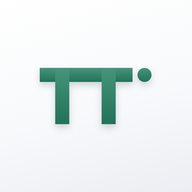
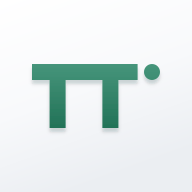
SATTO: 公式のロゴ・アイコン・ファビコンに差し替え
Claude-Session: https://claude.ai/code/session_01XBEK1zKb41iJAhumqLVeqb

Changed region(s): [[0.1562, 0.3125, 0.8438, 0.6875]]

diff --git a/kyomo/field/assets/logo.js b/kyomo/field/assets/logo.js
@@ -1,26 +1,19 @@
-/* SATTO のロゴ（文字のロゴ：2つのTを1本の線でつなぎ、端に点）とアイコン。色は会社の緑 */
+/* SATTO のロゴとアイコン（公式データ）。ロゴは形と比率を変えずに使い、文字の色だけを背景に合わせて切り替える */
 (function () {
   'use strict';
-  var G = '#288465';
-  function tt(fs) {
-    return '<svg class="tt" viewBox="0 0 158 78" width="' + (fs * 1.41).toFixed(1) + '" height="' + (fs * 0.696).toFixed(1) + '" aria-hidden="true">' +
-      '<rect x="0" y="0" width="134" height="15" fill="' + G + '"/><rect x="24" y="0" width="17" height="78" fill="' + G + '"/>' +
-      '<rect x="92" y="0" width="17" height="78" fill="' + G + '"/><circle cx="148" cy="7.5" r="8.5" fill="' + G + '"/></svg>';
-  }
-  function tile(px) {
-    var g = Math.round(px * 0.66);
-    return '<span class="tile" style="width:' + px + 'px;height:' + px + 'px;border-radius:' + Math.round(px * 0.236) + 'px">' +
-      '<svg viewBox="0 0 160 80" width="' + g + '" height="' + Math.round(g / 2) + '" aria-hidden="true">' +
-      '<rect x="0" y="0" width="132" height="22" fill="' + G + '"/><rect x="21" y="0" width="22" height="80" fill="' + G + '"/>' +
-      '<rect x="87" y="0" width="22" height="80" fill="' + G + '"/><circle cx="149" cy="11" r="11" fill="' + G + '"/></svg></span>';
+  var me = document.currentScript && document.currentScript.src;
+  var dir = me ? me.replace(/[^/]*$/, '') : 'assets/';
+  var VB = "-26.4 0 3670.8 814.7", INNER = "<path class=\"ink\" transform=\"translate(0.0 760.4) scale(1 -1)\" d=\"M280 -11Q193 -11 130.25 17.25Q67.5 45.5 16 103.5L117.5 205Q151.5 165.5 193.0 144.0Q234.5 122.5 290 122.5Q339.5 122.5 367.25 140.75Q395 159 395 191Q395 219.5 377.0 237.75Q359 256 329.5 269.0Q300 282 264.5 293.75Q229 305.5 193.75 321.25Q158.5 337 129.0 360.25Q99.5 383.5 81.5 419.25Q63.5 455 63.5 508.5Q63.5 574 95.25 620.75Q127 667.5 183.0 692.25Q239 717 311.5 717Q386 717 447.5 690.75Q509 664.5 548.5 620L446.5 518.5Q415 551.5 382.25 567.5Q349.5 583.5 309 583.5Q267.5 583.5 243.5 568.0Q219.5 552.5 219.5 523.5Q219.5 497 237.5 480.5Q255.5 464 285.0 451.75Q314.5 439.5 350.0 427.5Q385.5 415.5 420.75 399.75Q456 384 485.5 359.5Q515 335 533.0 297.5Q551 260 551 205Q551 103.5 479.0 46.25Q407 -11 280 -11Z\"/>\n<path class=\"ink\" transform=\"translate(598.6 760.4) scale(1 -1)\" d=\"M15 0 294.5 706H436.5L713.5 0H547.5L336 586H393L178 0ZM174 127.5V255.5H558.5V127.5Z\"/>\n<path class=\"ink\" transform=\"translate(2828.0 760.4) scale(1 -1)\" d=\"M404.5 -12Q325 -12 257.25 16.0Q189.5 44 138.75 93.75Q88 143.5 59.75 210.25Q31.5 277 31.5 354Q31.5 431.5 59.5 497.5Q87.5 563.5 137.75 613.25Q188 663 255.5 690.5Q323 718 402.5 718Q482 718 549.5 690.5Q617 663 667.5 613.25Q718 563.5 746.0 497.0Q774 430.5 774 353Q774 276 746.0 209.5Q718 143 667.75 93.25Q617.5 43.5 550.25 15.75Q483 -12 404.5 -12ZM402.5 131Q466 131 513.25 159.0Q560.5 187 586.75 237.25Q613 287.5 613 354Q613 403.5 598.0 444.0Q583 484.5 555.0 514.0Q527 543.5 488.5 559.25Q450 575 402.5 575Q339.5 575 292.25 547.5Q245 520 218.75 470.25Q192.5 420.5 192.5 354Q192.5 304 207.5 262.75Q222.5 221.5 250.25 192.25Q278 163 316.75 147.0Q355.5 131 402.5 131Z\"/>\n<g fill=\"#288465\">\n<rect x=\"1358.9\" y=\"54.4\" width=\"1212.9\" height=\"135.8\"/>\n<rect x=\"1576.1\" y=\"54.4\" width=\"153.9\" height=\"706.0\"/>\n<rect x=\"2191.6\" y=\"54.4\" width=\"153.9\" height=\"706.0\"/>\n<circle cx=\"2698.5\" cy=\"122.2\" r=\"76.9\"/>\n</g>";
+  function mark(h) {
+    return '<svg class="mark" viewBox="' + VB + '" height="' + h + '" width="' + (h * 3670.8 / 814.7).toFixed(1) + '" aria-hidden="true">' + INNER + '</svg>';
   }
   window.SATTO = {
-    logo: function (fs, opt) {
-      opt = opt || {}; fs = fs || 20;
+    logo: function (h, opt) {
+      opt = opt || {}; h = h || 18;
+      var t = Math.round(h * 1.75);
       return '<span class="logo" role="img" aria-label="SATTO' + (opt.sub ? ' ' + opt.sub : '') + '">' +
-        (opt.icon === false ? '' : tile(Math.round(fs * 1.45))) +
-        '<span class="wm" style="font-size:' + fs + 'px" aria-hidden="true">SA' + tt(fs) + 'O</span>' +
-        (opt.sub ? '<span class="sub">' + opt.sub + '</span>' : '') + '</span>';
+        (opt.icon === false ? '' : '<img class="tile" src="' + dir + 'satto-icon.svg" width="' + t + '" height="' + t + '" alt="">') +
+        mark(h) + (opt.sub ? '<span class="sub">' + opt.sub + '</span>' : '') + '</span>';
     }
   };
 })();

diff --git a/kyomo/test-b/assets/logo.js b/kyomo/test-b/assets/logo.js
@@ -1,26 +1,19 @@
-/* SATTO のロゴ（文字のロゴ：2つのTを1本の線でつなぎ、端に点）とアイコン。色は会社の緑 */
+/* SATTO のロゴとアイコン（公式データ）。ロゴは形と比率を変えずに使い、文字の色だけを背景に合わせて切り替える */
 (function () {
   'use strict';
-  var G = '#288465';
-  function tt(fs) {
-    return '<svg class="tt" viewBox="0 0 158 78" width="' + (fs * 1.41).toFixed(1) + '" height="' + (fs * 0.696).toFixed(1) + '" aria-hidden="true">' +
-      '<rect x="0" y="0" width="134" height="15" fill="' + G + '"/><rect x="24" y="0" width="17" height="78" fill="' + G + '"/>' +
-      '<rect x="92" y="0" width="17" height="78" fill="' + G + '"/><circle cx="148" cy="7.5" r="8.5" fill="' + G + '"/></svg>';
-  }
-  function tile(px) {
-    var g = Math.round(px * 0.66);
-    return '<span class="tile" style="width:' + px + 'px;height:' + px + 'px;border-radius:' + Math.round(px * 0.236) + 'px">' +
-      '<svg viewBox="0 0 160 80" width="' + g + '" height="' + Math.round(g / 2) + '" aria-hidden="true">' +
-      '<rect x="0" y="0" width="132" height="22" fill="' + G + '"/><rect x="21" y="0" width="22" height="80" fill="' + G + '"/>' +
-      '<rect x="87" y="0" width="22" height="80" fill="' + G + '"/><circle cx="149" cy="11" r="11" fill="' + G + '"/></svg></span>';
+  var me = document.currentScript && document.currentScript.src;
+  var dir = me ? me.replace(/[^/]*$/, '') : 'assets/';
+  var VB = "-26.4 0 3670.8 814.7", INNER = "<path class=\"ink\" transform=\"translate(0.0 760.4) scale(1 -1)\" d=\"M280 -11Q193 -11 130.25 17.25Q67.5 45.5 16 103.5L117.5 205Q151.5 165.5 193.0 144.0Q234.5 122.5 290 122.5Q339.5 122.5 367.25 140.75Q395 159 395 191Q395 219.5 377.0 237.75Q359 256 329.5 269.0Q300 282 264.5 293.75Q229 305.5 193.75 321.25Q158.5 337 129.0 360.25Q99.5 383.5 81.5 419.25Q63.5 455 63.5 508.5Q63.5 574 95.25 620.75Q127 667.5 183.0 692.25Q239 717 311.5 717Q386 717 447.5 690.75Q509 664.5 548.5 620L446.5 518.5Q415 551.5 382.25 567.5Q349.5 583.5 309 583.5Q267.5 583.5 243.5 568.0Q219.5 552.5 219.5 523.5Q219.5 497 237.5 480.5Q255.5 464 285.0 451.75Q314.5 439.5 350.0 427.5Q385.5 415.5 420.75 399.75Q456 384 485.5 359.5Q515 335 533.0 297.5Q551 260 551 205Q551 103.5 479.0 46.25Q407 -11 280 -11Z\"/>\n<path class=\"ink\" transform=\"translate(598.6 760.4) scale(1 -1)\" d=\"M15 0 294.5 706H436.5L713.5 0H547.5L336 586H393L178 0ZM174 127.5V255.5H558.5V127.5Z\"/>\n<path class=\"ink\" transform=\"translate(2828.0 760.4) scale(1 -1)\" d=\"M404.5 -12Q325 -12 257.25 16.0Q189.5 44 138.75 93.75Q88 143.5 59.75 210.25Q31.5 277 31.5 354Q31.5 431.5 59.5 497.5Q87.5 563.5 137.75 613.25Q188 663 255.5 690.5Q323 718 402.5 718Q482 718 549.5 690.5Q617 663 667.5 613.25Q718 563.5 746.0 497.0Q774 430.5 774 353Q774 276 746.0 209.5Q718 143 667.75 93.25Q617.5 43.5 550.25 15.75Q483 -12 404.5 -12ZM402.5 131Q466 131 513.25 159.0Q560.5 187 586.75 237.25Q613 287.5 613 354Q613 403.5 598.0 444.0Q583 484.5 555.0 514.0Q527 543.5 488.5 559.25Q450 575 402.5 575Q339.5 575 292.25 547.5Q245 520 218.75 470.25Q192.5 420.5 192.5 354Q192.5 304 207.5 262.75Q222.5 221.5 250.25 192.25Q278 163 316.75 147.0Q355.5 131 402.5 131Z\"/>\n<g fill=\"#288465\">\n<rect x=\"1358.9\" y=\"54.4\" width=\"1212.9\" height=\"135.8\"/>\n<rect x=\"1576.1\" y=\"54.4\" width=\"153.9\" height=\"706.0\"/>\n<rect x=\"2191.6\" y=\"54.4\" width=\"153.9\" height=\"706.0\"/>\n<circle cx=\"2698.5\" cy=\"122.2\" r=\"76.9\"/>\n</g>";
+  function mark(h) {
+    return '<svg class="mark" viewBox="' + VB + '" height="' + h + '" width="' + (h * 3670.8 / 814.7).toFixed(1) + '" aria-hidden="true">' + INNER + '</svg>';
   }
   window.SATTO = {
-    logo: function (fs, opt) {
-      opt = opt || {}; fs = fs || 20;
+    logo: function (h, opt) {
+      opt = opt || {}; h = h || 18;
+      var t = Math.round(h * 1.75);
       return '<span class="logo" role="img" aria-label="SATTO' + (opt.sub ? ' ' + opt.sub : '') + '">' +
-        (opt.icon === false ? '' : tile(Math.round(fs * 1.45))) +
-        '<span class="wm" style="font-size:' + fs + 'px" aria-hidden="true">SA' + tt(fs) + 'O</span>' +
-        (opt.sub ? '<span class="sub">' + opt.sub + '</span>' : '') + '</span>';
+        (opt.icon === false ? '' : '<img class="tile" src="' + dir + 'satto-icon.svg" width="' + t + '" height="' + t + '" alt="">') +
+        mark(h) + (opt.sub ? '<span class="sub">' + opt.sub + '</span>' : '') + '</span>';
     }
   };
 })();

diff --git a/kyomo/test-b/index.html b/kyomo/test-b/index.html
@@ -11,11 +11,12 @@
 <meta name="apple-mobile-web-app-status-bar-style" content="black-translucent">
 <link rel="apple-touch-icon" href="assets/icon-180.png">
 <link rel="manifest" href="manifest.webmanifest">
+<link rel="icon" href="assets/favicon.ico" sizes="any">
 <title>SATTO テストB</title>
 <link rel="preconnect" href="https://fonts.googleapis.com">
 <link rel="preconnect" href="https://fonts.gstatic.com" crossorigin>
 <link rel="stylesheet" href="https://fonts.googleapis.com/css2?family=BIZ+UDPGothic:wght@400;700&family=Outfit:wght@700&display=swap">
-<link rel="stylesheet" href="assets/base.css?v=s1">
+<link rel="stylesheet" href="assets/base.css?v=s2">
 <style>
 /* 親指が届く下端に報告ボタンを固定し、上半分は「いま何時か、今日どこか」だけを見せる */
 #app { max-width: 480px; margin: 0 auto; min-height: 100dvh; background: var(--bg); position: relative; }
@@ -146,7 +147,7 @@
 <body>
 <div id="app"></div>
 <div id="overlay"></div>
-<script src="assets/logo.js?v=s1"></script>
+<script src="assets/logo.js?v=s2"></script>
 <script src="assets/core.js?v=b2"></script>
 <script>
 (function () {
@@ -178,9 +179,9 @@
   function header(title) {
     const p = me(), now = K.now(), sec = String(Math.floor((now % 1) * 60)).padStart(2, '0');
     if (title) {
-      return '<header class="top"><div class="bar">' + (V.sub ? '<button class="back" data-back="1">' + ic('back', 20) + '戻る</button>' : '<span class="brand">' + SATTO.logo(19, { sub: 'テストB' }) + '</span>') + demoBtn() + '</div><h1 class="sub-title">' + esc(title) + '</h1></header>';
+      return '<header class="top"><div class="bar">' + (V.sub ? '<button class="back" data-back="1">' + ic('back', 20) + '戻る</button>' : '<span class="brand">' + SATTO.logo(17, { sub: 'テストB' }) + '</span>') + demoBtn() + '</div><h1 class="sub-title">' + esc(title) + '</h1></header>';
     }
-    return '<header class="top"><div class="bar"><span class="brand">' + SATTO.logo(19, { sub: 'テストB' }) + '</span>' + demoBtn() + '</div></header>' +
+    return '<header class="top"><div class="bar"><span class="brand">' + SATTO.logo(17, { sub: 'テストB' }) + '</span>' + demoBtn() + '</div></header>' +
       '<section class="clock-sec"><div class="when"><span>' + dateLabel + (K.isTest() ? '　テスト時刻' : '') + '</span><span>' + esc(p.name) + '</span></div>' +
       '<div class="clock num"><b id="clockHM">' + fmt(now) + '</b><span id="clockS">' + sec + '</span></div></section>';
   }
@@ -353,7 +354,7 @@
     } else {
       body = '<h1>パスワードの設定</h1><div class="field"><label for="aNew">新しいパスワード（8文字以上）</label><input id="aNew" type="password" autocomplete="new-password"></div><div class="field"><label for="aNew2">もう一度入力</label><input id="aNew2" type="password" autocomplete="new-password"></div>' + err + '<button class="btn primary" id="aSave" type="submit" style="min-height:52px">設定してログイン</button>';
     }
-    return '<div class="auth"><header class="top"><div class="bar"><span class="brand">' + SATTO.logo(19, { sub: 'テストB' }) + '</span></div></header><form id="authForm" novalidate>' + body + '</form></div>';
+    return '<div class="auth"><header class="top"><div class="bar"><span class="brand">' + SATTO.logo(17, { sub: 'テストB' }) + '</span></div></header><form id="authForm" novalidate>' + body + '</form></div>';
   }
   async function authSubmit() {
     const a = V.a, A = K.S.auth;

diff --git a/kyomo/test-b/client/index.html b/kyomo/test-b/client/index.html
@@ -6,11 +6,12 @@
 <meta name="robots" content="noindex,nofollow">
 <meta name="theme-color" content="#FFFFFF">
 <link rel="apple-touch-icon" href="../assets/icon-180.png">
+<link rel="icon" href="../assets/favicon.ico" sizes="any">
 <title>店舗の準備状況 テストB</title>
 <link rel="preconnect" href="https://fonts.googleapis.com">
 <link rel="preconnect" href="https://fonts.gstatic.com" crossorigin>
 <link rel="stylesheet" href="https://fonts.googleapis.com/css2?family=BIZ+UDPGothic:wght@400;700&family=Outfit:wght@700&display=swap">
-<link rel="stylesheet" href="../assets/base.css?v=s1">
+<link rel="stylesheet" href="../assets/base.css?v=s2">
 <style>
 .side { background: var(--pine-deep); color: var(--on-deep); padding: calc(8px + env(safe-area-inset-top, 0px)) max(16px, env(safe-area-inset-right, 0px)) 0 max(16px, env(safe-area-inset-left, 0px)); display: flex; flex-wrap: wrap; align-items: center; gap: 2px 10px; position: sticky; top: 0; z-index: 8; }
 .side .brand { font-size: 17px; }
@@ -60,7 +61,7 @@ td { padding: 9px 12px; border-top: 1px solid var(--line); white-space: nowrap; 
 <aside class="side" id="side"></aside>
 <main class="content" id="content"></main>
 <div id="overlay"></div>
-<script src="../assets/logo.js?v=s1"></script>
+<script src="../assets/logo.js?v=s2"></script>
 <script src="client-data.js?v=b1"></script>
 <script>
 /* 発注側の画面。店舗ごとの状況と委託先ごとの集計だけを読む。スタッフの情報はこの画面に届かない */
@@ -85,7 +86,7 @@ td { padding: 9px 12px; border-top: 1px solid var(--line); white-space: nowrap; 
 
   function side() {
     const nav = [['stores', '店舗の状況'], ['comp', '委託先の完了状況'], ['about', 'この画面について']];
-    $('side').innerHTML = '<span class="brand">' + SATTO.logo(18) + '</span><span class="brand" style="margin-left:4px">店舗の準備状況</span><span class="role">発注側の画面 ／ テストB</span><div class="navs">' + nav.map((n) => '<button class="nav" data-page="' + n[0] + '"' + (V.page === n[0] ? ' aria-current="page"' : '') + '>' + n[1] + '</button>').join('') + '</div><div class="foot"><button class="proto-btn" data-demo="1">試作</button></div>';
+    $('side').innerHTML = '<span class="brand">' + SATTO.logo(16) + '</span><span class="brand" style="margin-left:4px">店舗の準備状況</span><span class="role">発注側の画面 ／ テストB</span><div class="navs">' + nav.map((n) => '<button class="nav" data-page="' + n[0] + '"' + (V.page === n[0] ? ' aria-current="page"' : '') + '>' + n[1] + '</button>').join('') + '</div><div class="foot"><button class="proto-btn" data-demo="1">試作</button></div>';
   }
   function storesPage(F) {
     const scoped = F.stores.filter((s) => (V.area === 'all' || s.area === V.area) && (V.pref === 'all' || s.pref === V.pref) && (V.itaku === 'all' || s.itaku === V.itaku));

diff --git a/kyomo/test-b/itaku/index.html b/kyomo/test-b/itaku/index.html
@@ -9,12 +9,13 @@
 <meta name="mobile-web-app-capable" content="yes">
 <meta name="apple-mobile-web-app-title" content="テストB委託先">
 <link rel="apple-touch-icon" href="../assets/icon-180.png">
+<link rel="icon" href="../assets/favicon.ico" sizes="any">
 <title>SATTO テストB 委託先</title>
 <link rel="preconnect" href="https://fonts.googleapis.com">
 <link rel="preconnect" href="https://fonts.gstatic.com" crossorigin>
 <link rel="stylesheet" href="https://fonts.googleapis.com/css2?family=BIZ+UDPGothic:wght@400;700&family=Outfit:wght@700&display=swap">
 <link rel="stylesheet" href="https://cdnjs.cloudflare.com/ajax/libs/leaflet/1.9.4/leaflet.min.css">
-<link rel="stylesheet" href="../assets/base.css?v=s1">
+<link rel="stylesheet" href="../assets/base.css?v=s2">
 <style>
 /* 委託先は「今日いま対応が要る人」から順に見る。PCは左メニュー、スマホは上タブ。 */
 .shell { display: grid; grid-template-columns: minmax(0, 1fr); min-height: 100dvh; align-content: start; }
@@ -138,7 +139,7 @@ td .locd { display: block; font-size: 12px; color: var(--muted); }
 <div id="overlay"></div>
 <div id="toast" role="status" hidden></div>
 <script src="https://cdnjs.cloudflare.com/ajax/libs/leaflet/1.9.4/leaflet.min.js"></script>
-<script src="../assets/logo.js?v=s1"></script>
+<script src="../assets/logo.js?v=s2"></script>
 <script src="../assets/core.js?v=b2"></script>
 <script>
 (function () {
@@ -171,7 +172,7 @@ td .locd { display: block; font-size: 12px; color: var(--muted); }
     const wait = ['uniform', 'incam'].reduce((n, kind) => n + P.filter((p) => K.isTarget(kind, mk, p.id) && (K.invOf(kind, mk, p.id) || {}).status === 'wait').length, 0);
     const reqs = K.S.storeRequests.filter((r) => r.state === 'open' && r.itaku === K.S.itaku).length;
     const nav = [['today', '今日の報告', 'check', pending().length + (K.gpsOn(K.S.itaku) ? locPending().length : 0)], ['stores', '店舗', 'store', reqs], ['shift', 'シフト', 'grid', 0], ['stock', '棚卸し', 'box', wait], ['tasks', '提出物・お知らせ', 'list', 0], ['set', '設定', 'sliders', 0]];
-    $('side').innerHTML = '<span class="brand">' + SATTO.logo(18, { sub: 'テストB' }) + '</span><span class="role">委託先 ／ ' + esc(IT().name) + '</span><div class="navs">' +
+    $('side').innerHTML = '<span class="brand">' + SATTO.logo(16, { sub: 'テストB' }) + '</span><span class="role">委託先 ／ ' + esc(IT().name) + '</span><div class="navs">' +
       nav.map((n) => '<button class="nav" data-page="' + n[0] + '"' + (V.page === n[0] ? ' aria-current="page"' : '') + '>' + ic(n[2], 20) + n[1] + (n[3] ? '<span class="n num">' + n[3] + '</span>' : '') + '</button>').join('') +
       '</div><div class="foot"><button class="proto-btn" data-sheet="demo">' + ic('sliders', 15) + '試作</button></div>';
   }

diff --git a/kyomo/field/admin/index.html b/kyomo/field/admin/index.html
@@ -6,11 +6,12 @@
 <meta name="robots" content="noindex,nofollow">
 <meta name="theme-color" content="#FFFFFF">
 <link rel="apple-touch-icon" href="../assets/icon-180.png">
+<link rel="icon" href="../assets/favicon.ico" sizes="any">
 <title>SATTO 外回り 管理</title>
 <link rel="preconnect" href="https://fonts.googleapis.com">
 <link rel="preconnect" href="https://fonts.gstatic.com" crossorigin>
 <link rel="stylesheet" href="https://fonts.googleapis.com/css2?family=BIZ+UDPGothic:wght@400;700&family=Outfit:wght@700&display=swap">
-<link rel="stylesheet" href="../assets/base.css?v=s1">
+<link rel="stylesheet" href="../assets/base.css?v=s2">
 <link rel="stylesheet" href="https://cdnjs.cloudflare.com/ajax/libs/leaflet/1.9.4/leaflet.min.css">
 <style>
 .side { background: var(--pine-deep); color: var(--on-deep); padding: calc(8px + env(safe-area-inset-top, 0px)) max(16px, env(safe-area-inset-right, 0px)) 0 max(16px, env(safe-area-inset-left, 0px)); display: flex; flex-wrap: wrap; align-items: center; gap: 2px 10px; position: sticky; top: 0; z-index: 8; }
@@ -92,7 +93,7 @@ tr.cold td { background: var(--amber-soft); }
 <div id="overlay"></div>
 <div id="toast" role="status" hidden style="position:fixed;left:50%;transform:translateX(-50%);bottom:24px;background:#1B2433;color:#fff;padding:10px 16px;border-radius:6px;z-index:60;font-size:14px"></div>
 <script src="https://cdnjs.cloudflare.com/ajax/libs/leaflet/1.9.4/leaflet.min.js"></script>
-<script src="../assets/logo.js?v=s1"></script>
+<script src="../assets/logo.js?v=s2"></script>
 <script src="../assets/field.js?v=f1"></script>
 <script>
 (function () {
@@ -109,7 +110,7 @@ tr.cold td { background: var(--amber-soft); }
 
   function side() {
     const nav = [['today', '今日の動き'], ['reports', '訪問報告'], ['stores', '店舗の訪問状況'], ['set', '設定']];
-    $('side').innerHTML = '<span class="brand">' + SATTO.logo(18, { sub: '外回り' }) + '</span><span class="role">管理画面 ／ ' + esc(viewerName()) + '</span><div class="navs">' + nav.map((n) => '<button class="nav" data-page="' + n[0] + '"' + (V.page === n[0] ? ' aria-current="page"' : '') + '>' + n[1] + '</button>').join('') + '</div><div class="foot"><button class="proto-btn" data-sheet="demo">試作</button></div>';
+    $('side').innerHTML = '<span class="brand">' + SATTO.logo(16, { sub: '外回り' }) + '</span><span class="role">管理画面 ／ ' + esc(viewerName()) + '</span><div class="navs">' + nav.map((n) => '<button class="nav" data-page="' + n[0] + '"' + (V.page === n[0] ? ' aria-current="page"' : '') + '>' + n[1] + '</button>').join('') + '</div><div class="foot"><button class="proto-btn" data-sheet="demo">試作</button></div>';
   }
   function areaChips(key, list) {
     const areas = F.AREAS.filter((a) => list.some((x) => x.area === a.id));

diff --git a/kyomo/field/assets/base.css b/kyomo/field/assets/base.css
@@ -62,9 +62,10 @@ a.btn { color: inherit; }
 .jump-row .btn { min-height: 38px; padding: 5px 12px; font-size: 13px; }
 @media (prefers-reduced-motion: reduce) { *, *::before, *::after { animation: none !important; transition: none !important; } }
 
-/* SATTO のロゴ */
-.logo { display: inline-flex; align-items: center; gap: 9px; line-height: 1; vertical-align: middle; }
-.logo .tile { display: inline-flex; align-items: center; justify-content: center; flex: none; background: linear-gradient(165deg, #FFFFFF 0%, #F8F9FB 55%, #EBEEF2 100%); box-shadow: 0 0 0 1px rgba(22, 32, 44, .08), 0 2px 4px rgba(22, 32, 44, .14); }
-.logo .wm { display: inline-flex; align-items: baseline; font-family: 'Outfit', var(--sans); font-weight: 700; letter-spacing: .02em; color: var(--ink); }
-.logo .wm .tt { margin: 0 .035em 0 .018em; }
-.logo .sub { font-family: var(--sans); font-size: 12px; color: var(--muted); font-weight: 700; letter-spacing: .04em; margin-left: 2px; }
+/* SATTO のロゴ（公式データ）。ロゴのまわりに余白をとり、形は変えない */
+.logo { display: inline-flex; align-items: center; gap: 10px; line-height: 1; vertical-align: middle; }
+.logo .tile { display: block; flex: none; border-radius: 23%; box-shadow: 0 0 0 1px rgba(22, 32, 44, .08); }
+.logo .mark { display: block; flex: none; margin: 0 2px; }
+.logo .mark .ink { fill: #16202C; }
+.logo .sub { font-family: var(--sans); font-size: 12px; color: var(--muted); font-weight: 700; letter-spacing: .04em; }
+@media (prefers-color-scheme: dark) { .logo .mark .ink { fill: #FFFFFF; } }

diff --git a/kyomo/test-b/assets/base.css b/kyomo/test-b/assets/base.css
@@ -62,9 +62,10 @@ a.btn { color: inherit; }
 .jump-row .btn { min-height: 38px; padding: 5px 12px; font-size: 13px; }
 @media (prefers-reduced-motion: reduce) { *, *::before, *::after { animation: none !important; transition: none !important; } }
 
-/* SATTO のロゴ */
-.logo { display: inline-flex; align-items: center; gap: 9px; line-height: 1; vertical-align: middle; }
-.logo .tile { display: inline-flex; align-items: center; justify-content: center; flex: none; background: linear-gradient(165deg, #FFFFFF 0%, #F8F9FB 55%, #EBEEF2 100%); box-shadow: 0 0 0 1px rgba(22, 32, 44, .08), 0 2px 4px rgba(22, 32, 44, .14); }
-.logo .wm { display: inline-flex; align-items: baseline; font-family: 'Outfit', var(--sans); font-weight: 700; letter-spacing: .02em; color: var(--ink); }
-.logo .wm .tt { margin: 0 .035em 0 .018em; }
-.logo .sub { font-family: var(--sans); font-size: 12px; color: var(--muted); font-weight: 700; letter-spacing: .04em; margin-left: 2px; }
+/* SATTO のロゴ（公式データ）。ロゴのまわりに余白をとり、形は変えない */
+.logo { display: inline-flex; align-items: center; gap: 10px; line-height: 1; vertical-align: middle; }
+.logo .tile { display: block; flex: none; border-radius: 23%; box-shadow: 0 0 0 1px rgba(22, 32, 44, .08); }
+.logo .mark { display: block; flex: none; margin: 0 2px; }
+.logo .mark .ink { fill: #16202C; }
+.logo .sub { font-family: var(--sans); font-size: 12px; color: var(--muted); font-weight: 700; letter-spacing: .04em; }
+@media (prefers-color-scheme: dark) { .logo .mark .ink { fill: #FFFFFF; } }

diff --git a/kyomo/field/index.html b/kyomo/field/index.html
@@ -8,11 +8,12 @@
 <meta name="apple-mobile-web-app-capable" content="yes">
 <meta name="apple-mobile-web-app-title" content="SATTO 外回り">
 <link rel="apple-touch-icon" href="assets/icon-180.png">
+<link rel="icon" href="assets/favicon.ico" sizes="any">
 <title>SATTO 外回り</title>
 <link rel="preconnect" href="https://fonts.googleapis.com">
 <link rel="preconnect" href="https://fonts.gstatic.com" crossorigin>
 <link rel="stylesheet" href="https://fonts.googleapis.com/css2?family=BIZ+UDPGothic:wght@400;700&family=Outfit:wght@700&display=swap">
-<link rel="stylesheet" href="assets/base.css?v=s1">
+<link rel="stylesheet" href="assets/base.css?v=s2">
 <style>
 .top { background: var(--pine-deep); color: var(--on-deep); padding: calc(10px + env(safe-area-inset-top, 0px)) max(16px, env(safe-area-inset-right, 0px)) 12px max(16px, env(safe-area-inset-left, 0px)); position: sticky; top: 0; z-index: 5; }
 .top .bar { display: flex; justify-content: space-between; align-items: center; gap: 10px; max-width: 560px; margin: 0 auto; }
@@ -77,7 +78,7 @@
 <body>
 <div id="app"></div>
 <div id="overlay"></div>
-<script src="assets/logo.js?v=s1"></script>
+<script src="assets/logo.js?v=s2"></script>
 <script src="assets/field.js?v=f1"></script>
 <script>
 (function () {
